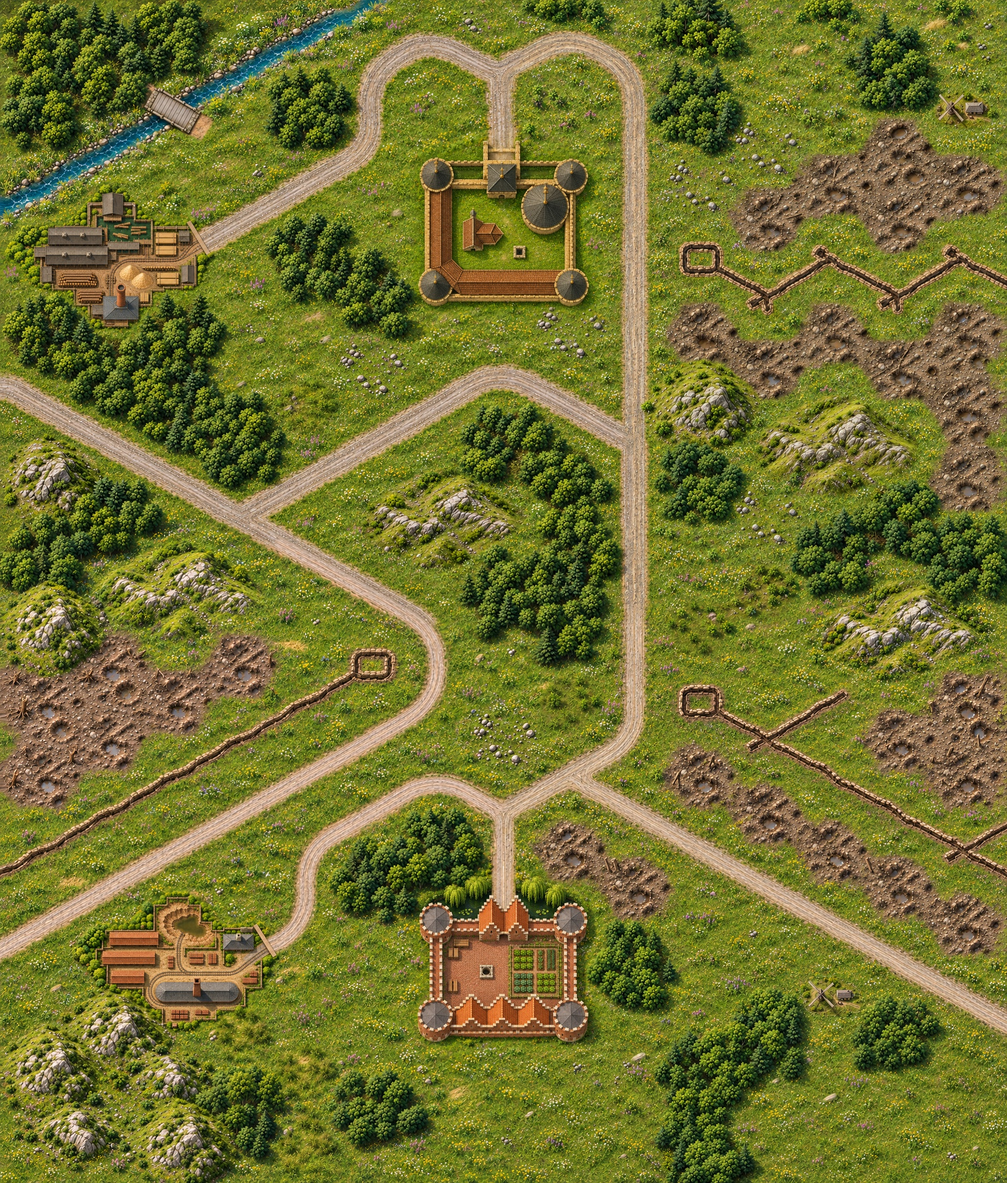
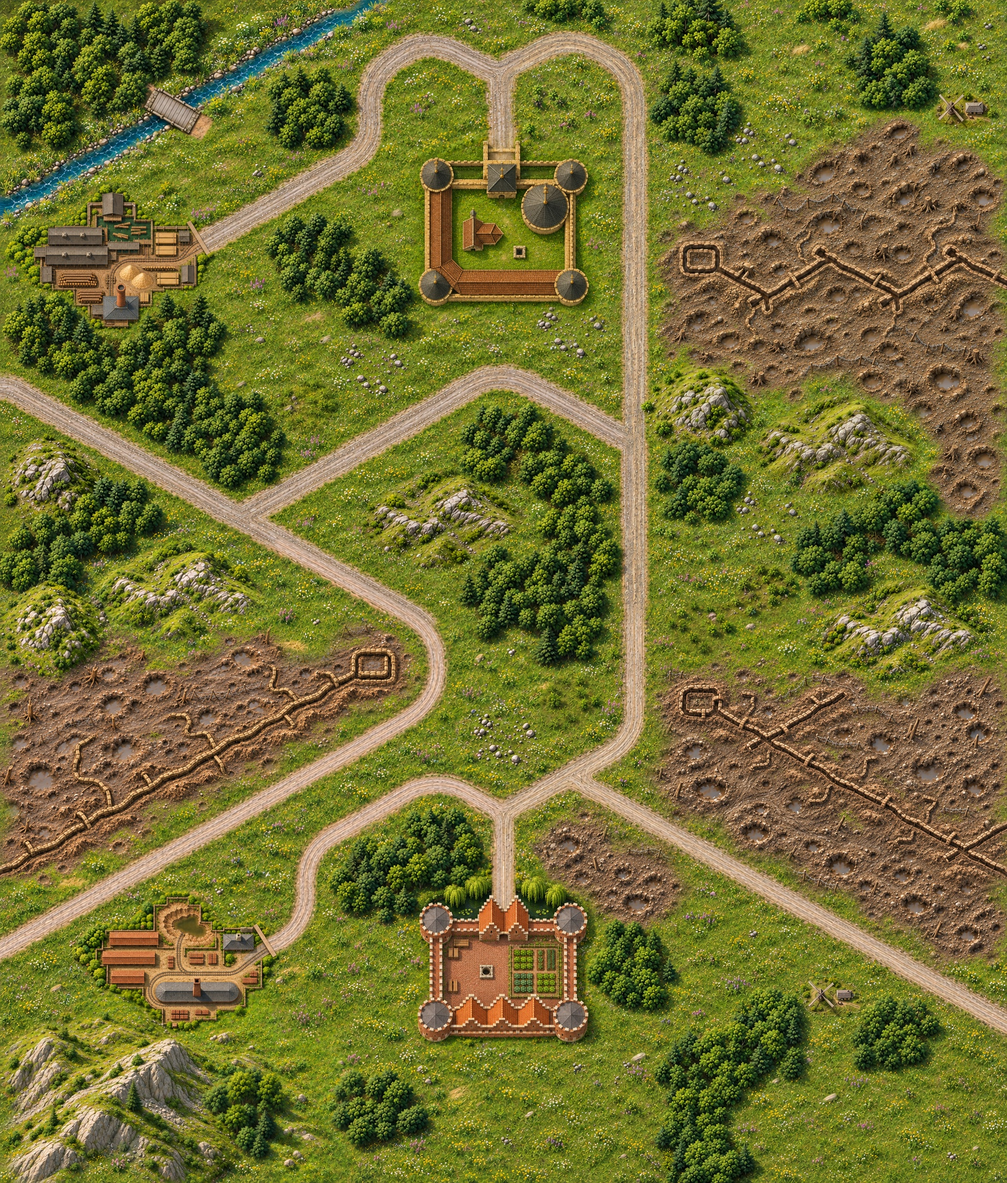
TROLL backdrop: fronts fused into torn zones, SW rocks into one massif
Mud fields and trenches on each of TROLL's three fronts are now one shell-torn
zone with saps and wire, the trenches on their courses; the scattered rocks in
the south-west corner are one limestone massif.

Claude-Session: https://claude.ai/code/session_01L5uDarvbftJsD76ersxgnD

diff --git a/docs/painted-backdrops.md b/docs/painted-backdrops.md
@@ -131,8 +131,10 @@ joins the HQ and compound approaches. Compacted-earth pockets and small woodland
 support the starting units, with all scenario placements preserved.
 
 TROLL (`1918-08`, 1875×2202) uses the same density, with mid-August greenery: lush green meadow
-with field flowers, woods in full dark-green leaf, limestone hills, a clear stream, earth roads and
-two lines of sandbagged trenches between shell-torn mud fields, under bright morning light. Its HQs
+with field flowers, woods in full dark-green leaf, limestone hills, one limestone massif in the
+south-west corner, a clear stream and earth roads, under bright morning light. Its three fronts are
+each one shell-torn zone of mud and craters with barbed wire, the sandbagged trenches and their saps
+cut through it. Its HQs
 are an ochre sandstone Lorraine fortress with a donjon, a barbican and a courtyard chapel, and a
 Flemish brick castle with stepped gables, a kitchen garden and willows at the gate. Its factories are
 a steam sawmill and a brickworks; its two houses are post windmills with cottages.
